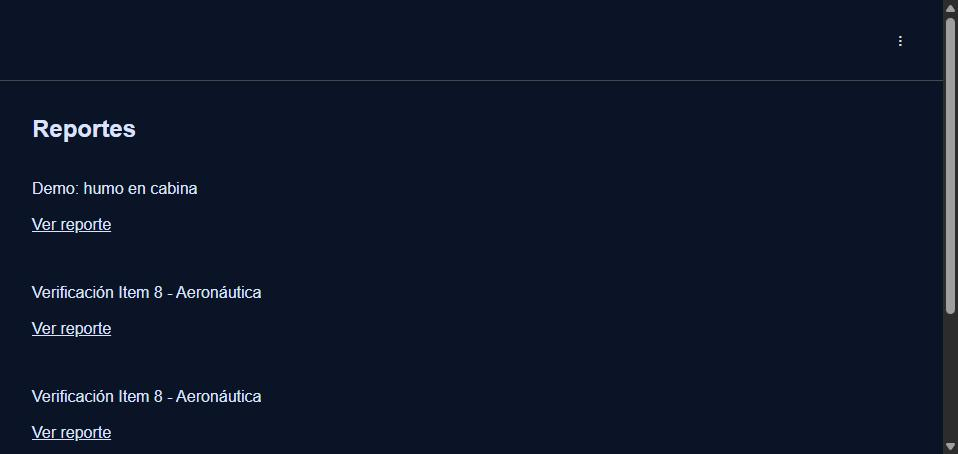
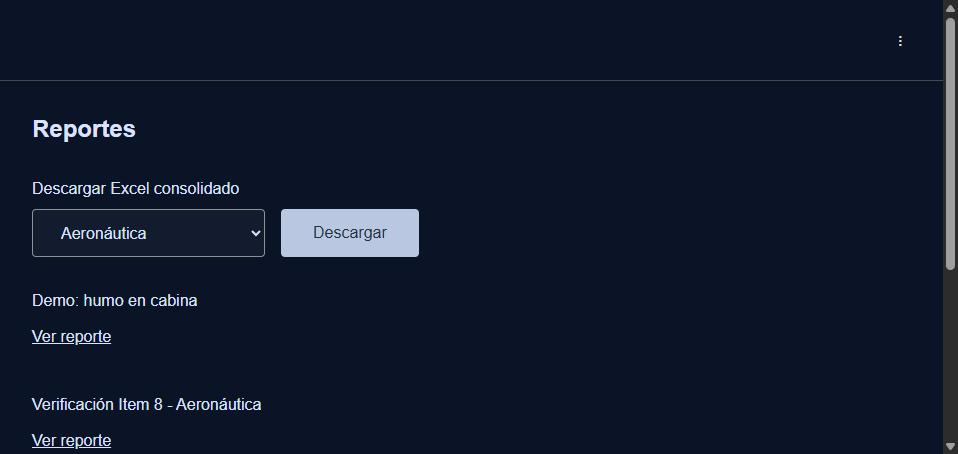
Actualizar el manual: Reportes ya tiene botón de descarga del Excel
Reemplaza la nota de "limitación conocida" (exportador sin botón, solo
accesible vía backend) por la descripción real del selector de categoría +
botón Descargar agregado en el commit a4961e3 y ya verificado en
producción. Captura de pantalla actualizada con el botón visible.

Claude-Session: https://claude.ai/code/session_01JezNLMaMcuVnUyZwSpicye

diff --git a/30 07/Manual de Usuario/Manual-de-Usuario-PCE.md b/30 07/Manual de Usuario/Manual-de-Usuario-PCE.md
@@ -125,12 +125,11 @@ sistema pudo completar automáticamente a partir de lo registrado durante la act
 > y varias columnas son detalle operativo que el PCE todavía no captura (quedan en blanco,
 > a completar a mano).
 
-**Descargar el Excel consolidado**: existe un exportador que arma un `.xlsx` con todos los
-reportes de cierre ya generados de una categoría (Aeronáutica, Epidemiológica,
-Estructural/Incidentes o MATPEL) — pensado para reemplazar el Excel que Rescate arma a
-mano. Todavía no tiene un botón en esta pantalla; hoy lo baja alguien del equipo técnico
-con acceso al backend (`GET /reportes-cierre/exportar?tipo_emergencia=...`, requiere sesión
-autenticada). Si esto se usa seguido, vale la pena pedir que se agregue un botón acá.
+**Descargar el Excel consolidado**: arriba de la lista hay un selector de categoría
+(Aeronáutica, Epidemiológica, Estructural/Incidentes o MATPEL) y un botón **Descargar** —
+arma y baja un `.xlsx` con todos los reportes de cierre ya generados de esa categoría,
+pensado para reemplazar el Excel que Rescate arma a mano. No hace falta elegir un reporte
+puntual primero: junta todos los que ya existan de la categoría elegida.
 
 ### 3.8. Relevo de mando (botón flotante)
 
